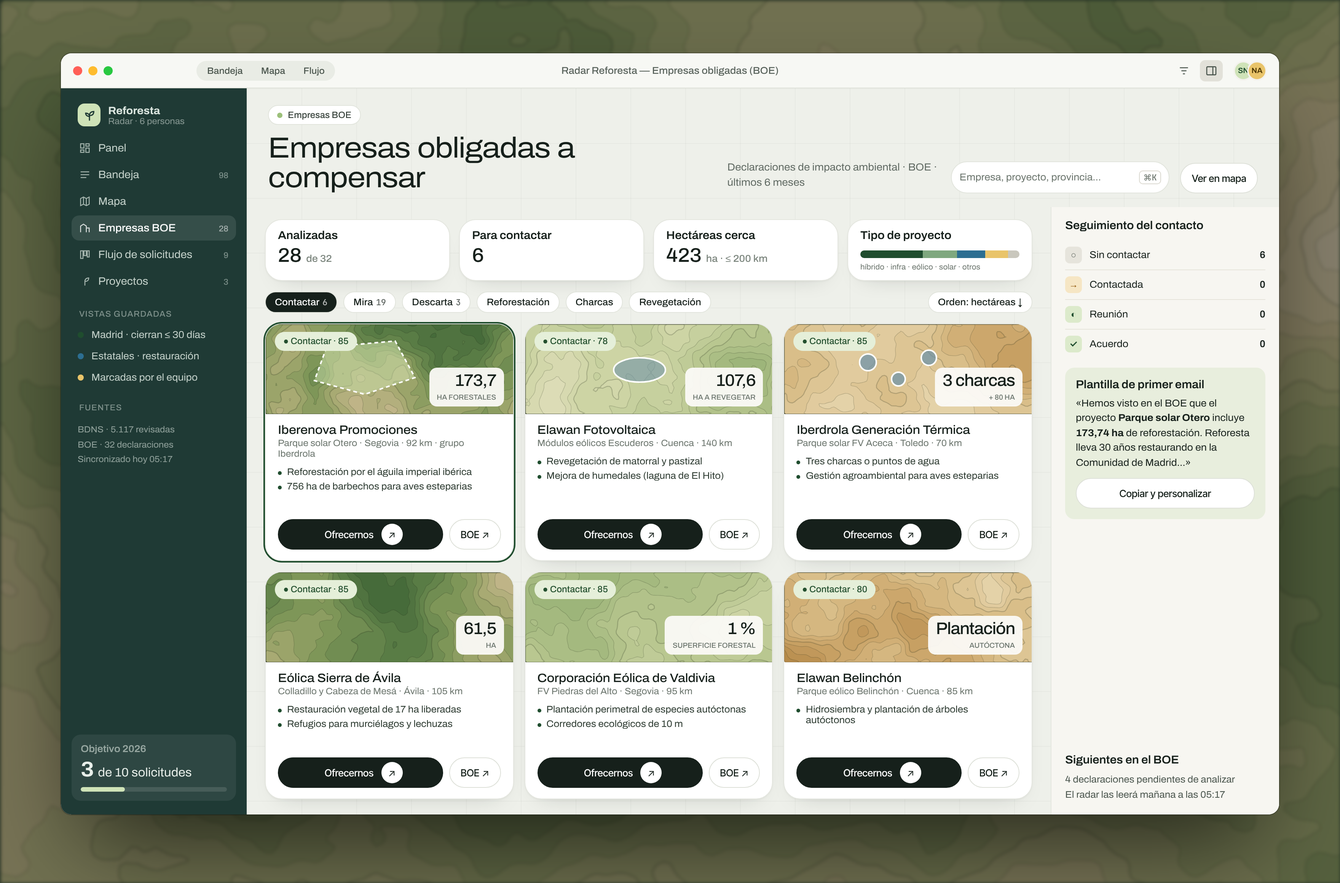
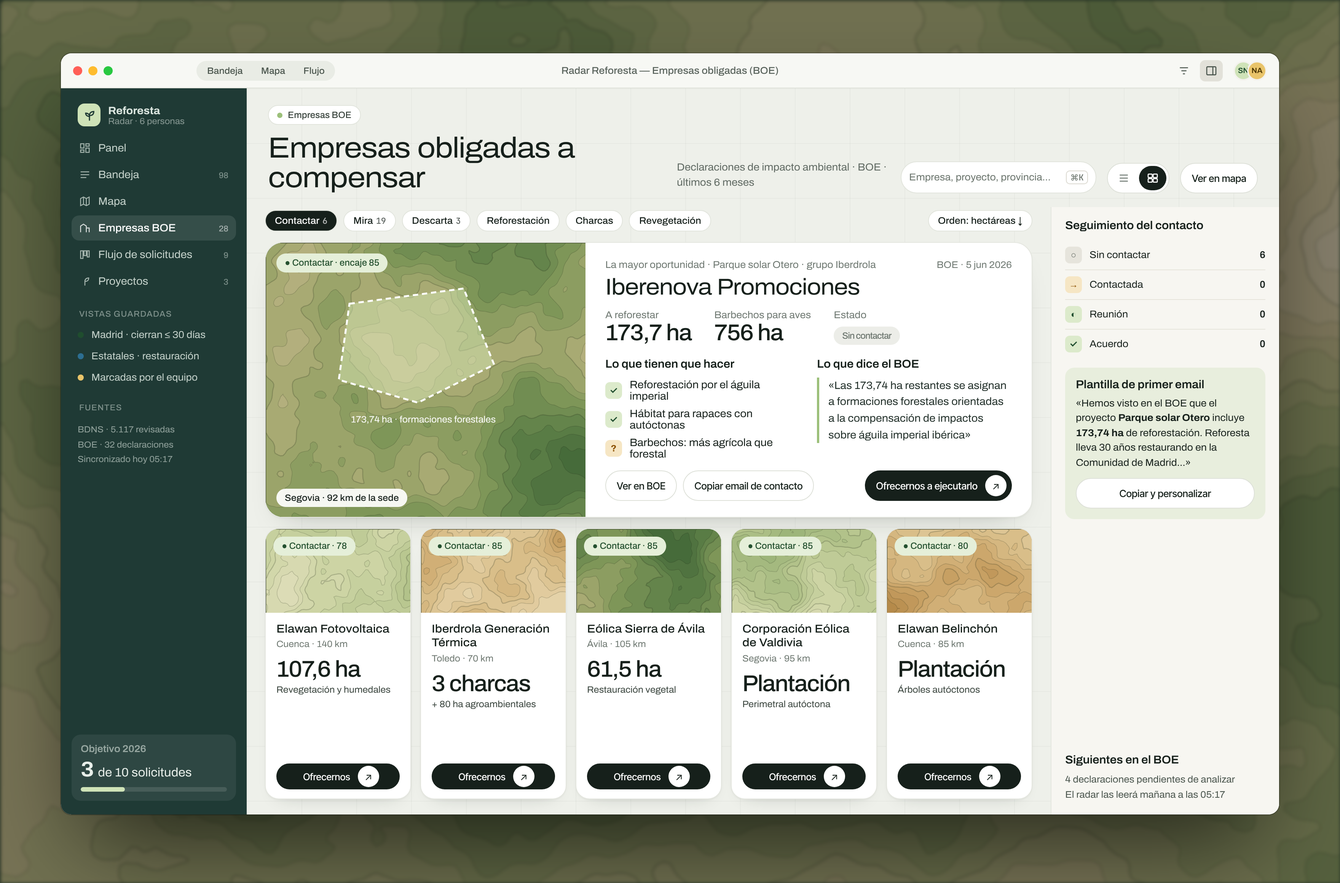
Prototipo Empresas: empresa destacada, tarjetas con hectáreas y vista en lista
Claude-Session: https://claude.ai/code/session_012gZcx8pYrYaYRtrnjVJ3cN

Changed region(s): [[0.1875, 0.2172, 0.7812, 0.9], [0.5, 0.1862, 0.8125, 0.2172], [0.8438, 0.1862, 0.875, 0.2172]]

diff --git a/prototipos/app/fuente/5-empresas.html b/prototipos/app/fuente/5-empresas.html
@@ -21,32 +21,45 @@
 .pipe{width:300px;border-left:1px solid #DAD8CF;background:#F7F6F1;padding:16px 18px;display:flex;flex-direction:column;gap:12px;flex:none}
 .st{display:flex;align-items:center;gap:10px;font-size:13px;padding:8px 0;border-bottom:1px solid #E6E4DB}
 .st b{margin-left:auto;font:600 13px "Archivo"}
+.vt{display:flex;background:#fff;border:1px solid #DDE0D8;border-radius:999px;padding:3px;gap:2px}
+.vt span{width:36px;height:32px;border-radius:999px;display:grid;place-items:center;color:#6E7871}
+.vt span.on{background:#16201B;color:#fff}
+.main2{flex:1;min-width:0;padding:4px 24px 20px;display:flex;flex-direction:column;gap:14px}
+.feat{background:#fff;border:1px solid #E4E6DF;border-radius:24px;overflow:hidden;display:grid;grid-template-columns:420px 1fr;height:362px;box-shadow:0 1px 2px rgba(22,32,27,.04),0 18px 36px -26px rgba(22,32,27,.35);flex:none}
+.fm{position:relative}
+.fb{padding:22px 26px;display:flex;flex-direction:column}
+.stat{display:flex;gap:30px;margin-top:14px}.stat div div:last-child{font-size:30px;font-weight:500;letter-spacing:-.03em;line-height:1.1}
+.stat .lb{font-size:13px;color:#6E7871}
+.small{display:grid;grid-template-columns:repeat(5,minmax(0,1fr));gap:12px;flex:1;min-height:0}
+.sc{background:#fff;border:1px solid #E4E6DF;border-radius:18px;overflow:hidden;display:flex;flex-direction:column;box-shadow:0 1px 2px rgba(22,32,27,.04),0 12px 24px -20px rgba(22,32,27,.3)}
+.sc .sh2{position:relative;height:110px;flex:none}
+.sc .bd{padding:12px 14px;display:flex;flex-direction:column;gap:4px;flex:1}
+.sc h3{margin:0;font-size:15px;line-height:1.25}
+.sc .o{font-size:12px;color:#6E7871}
+.sc .haz{font-size:30px;font-weight:500;letter-spacing:-.03em;margin-top:6px}
+.mlist{list-style:none;margin:12px 0 0;padding:0;display:flex;flex-direction:column;gap:8px;font-size:14px}
+.mlist li{display:flex;gap:10px;align-items:center}
 </style></head><body>
 <div id="page">
- <div class="toolbar"><h1>Empresas obligadas a compensar</h1><span style="color:#6A746C;font-size:13.5px">Declaraciones de impacto ambiental · BOE · últimos 6 meses</span><div class="search">Empresa, proyecto, provincia…<kbd>⌘K</kbd></div><span class="btn">Ver en mapa</span></div>
+ <div class="toolbar"><h1>Empresas obligadas a compensar</h1><span style="color:#6A746C;font-size:13.5px">Declaraciones de impacto ambiental · BOE · últimos 6 meses</span><div class="search">Empresa, proyecto, provincia…<kbd>⌘K</kbd></div><div class="vt" role="group" aria-label="Vista"><span class="" title="Lista"><svg width="16" height="16" viewBox="0 0 24 24" fill="none" stroke="currentColor" stroke-width="2"><path d="M4 6h16M4 12h16M4 18h16"/></svg></span><span class="on" title="Tarjetas"><svg width="16" height="16" viewBox="0 0 24 24" fill="none" stroke="currentColor" stroke-width="2"><rect x="3" y="4" width="8" height="7" rx="1.5"/><rect x="13" y="4" width="8" height="7" rx="1.5"/><rect x="3" y="13" width="8" height="7" rx="1.5"/><rect x="13" y="13" width="8" height="7" rx="1.5"/></svg></span></div><span class="btn">Ver en mapa</span></div>
  <div class="wrap">
-  <div class="main">
-   <div class="kp">
-    <div class="c"><div class="k">Analizadas</div><div style="font-size:26px;font-weight:500;margin-top:4px">28 <span style="font-size:13px;color:#7A847C;font-weight:500">de 32</span></div></div>
-    <div class="c"><div class="k">Para contactar</div><div style="font-size:26px;font-weight:500;margin-top:4px">6</div></div>
-    <div class="c"><div class="k">Hectáreas cerca</div><div style="font-size:26px;font-weight:500;margin-top:4px">423 <span style="font-size:13px;color:#7A847C;font-weight:500">ha · ≤ 200 km</span></div></div>
-    <div class="c"><div class="k">Tipo de proyecto</div><div style="display:flex;height:10px;border-radius:5px;overflow:hidden;margin-top:12px"><i style="flex:11;background:#1F4D2E"></i><i style="flex:6;background:#7FA87F"></i><i style="flex:5;background:#2C6E91"></i><i style="flex:4;background:#E9C46A"></i><i style="flex:2;background:#C9C7BD"></i></div><div class="mono" style="font-size:10px;color:#6A746C;margin-top:6px">híbrido · infra · eólico · solar · otros</div></div>
-   </div>
+  <div class="main2">
    <div style="display:flex;gap:8px"><span class="chip on">Contactar<b>6</b></span><span class="chip">Mira<b>19</b></span><span class="chip">Descarta<b>3</b></span><span class="chip">Reforestación</span><span class="chip">Charcas</span><span class="chip">Revegetación</span><span class="chip" style="margin-left:auto">Orden: hectáreas ↓</span></div>
-   <div class="cards">
-    <div class="ec" style="box-shadow:0 0 0 2px #1F4D2E"><div class="eh"><svg data-t="bosque:41:1.6" width="400" height="118" viewBox="0 0 400 118" aria-hidden="true" style="position:absolute;inset:0"></svg><svg width="400" height="118" viewBox="0 0 400 118" aria-hidden="true" style="position:absolute;inset:0"><path d="M80 30 L170 22 L196 70 L130 92 L64 74 Z" fill="rgba(216,235,184,.45)" stroke="#fff" stroke-width="2" stroke-dasharray="5 4"/></svg><span class="pill pr" style="position:absolute;left:12px;top:10px">● Contactar · 85</span><div class="ha"><b>173,7</b><span>ha forestales</span></div></div>
-     <div class="bd"><h3>Iberenova Promociones</h3><div class="o">Parque solar Otero · Segovia · 92 km · grupo Iberdrola</div><ul><li>Reforestación por el águila imperial ibérica</li><li>756 ha de barbechos para aves esteparias</li></ul><div style="margin-top:auto;display:flex;gap:8px;padding-top:12px"><span class="btn p" style="flex:1">Ofrecernos</span><span class="btn">BOE ↗</span></div></div></div>
-    <div class="ec"><div class="eh"><svg data-t="pradera:52:1.6" width="400" height="118" viewBox="0 0 400 118" aria-hidden="true" style="position:absolute;inset:0"></svg><svg width="400" height="118" viewBox="0 0 400 118" aria-hidden="true" style="position:absolute;inset:0"><ellipse cx="150" cy="60" rx="34" ry="16" fill="rgba(111,147,168,.6)" stroke="#fff" stroke-width="2"/></svg><span class="pill pr" style="position:absolute;left:12px;top:10px">● Contactar · 78</span><div class="ha"><b>107,6</b><span>ha a revegetar</span></div></div>
-     <div class="bd"><h3>Elawan Fotovoltaica</h3><div class="o">Módulos eólicos Escuderos · Cuenca · 140 km</div><ul><li>Revegetación de matorral y pastizal</li><li>Mejora de humedales (laguna de El Hito)</li></ul><div style="margin-top:auto;display:flex;gap:8px;padding-top:12px"><span class="btn p" style="flex:1">Ofrecernos</span><span class="btn">BOE ↗</span></div></div></div>
-    <div class="ec"><div class="eh"><svg data-t="ocre:63:1.6" width="400" height="118" viewBox="0 0 400 118" aria-hidden="true" style="position:absolute;inset:0"></svg><svg width="400" height="118" viewBox="0 0 400 118" aria-hidden="true" style="position:absolute;inset:0"><g fill="rgba(111,147,168,.75)" stroke="#fff" stroke-width="2"><circle cx="110" cy="50" r="11"/><circle cx="150" cy="72" r="9"/><circle cx="190" cy="44" r="10"/></g></svg><span class="pill pr" style="position:absolute;left:12px;top:10px">● Contactar · 85</span><div class="ha"><b>3 charcas</b><span>+ 80 ha</span></div></div>
-     <div class="bd"><h3>Iberdrola Generación Térmica</h3><div class="o">Parque solar FV Aceca · Toledo · 70 km</div><ul><li>Tres charcas o puntos de agua</li><li>Gestión agroambiental para aves esteparias</li></ul><div style="margin-top:auto;display:flex;gap:8px;padding-top:12px"><span class="btn p" style="flex:1">Ofrecernos</span><span class="btn">BOE ↗</span></div></div></div>
-    <div class="ec"><div class="eh"><svg data-t="bosque:77:1.6" width="400" height="118" viewBox="0 0 400 118" aria-hidden="true" style="position:absolute;inset:0"></svg><span class="pill pr" style="position:absolute;left:12px;top:10px">● Contactar · 85</span><div class="ha"><b>61,5</b><span>ha</span></div></div>
-     <div class="bd"><h3>Eólica Sierra de Ávila</h3><div class="o">Colladillo y Cabeza de Mesá · Ávila · 105 km</div><ul><li>Restauración vegetal de 17 ha liberadas</li><li>Refugios para murciélagos y lechuzas</li></ul><div style="margin-top:auto;display:flex;gap:8px;padding-top:12px"><span class="btn p" style="flex:1">Ofrecernos</span><span class="btn">BOE ↗</span></div></div></div>
-    <div class="ec"><div class="eh"><svg data-t="pradera:88:1.6" width="400" height="118" viewBox="0 0 400 118" aria-hidden="true" style="position:absolute;inset:0"></svg><span class="pill pr" style="position:absolute;left:12px;top:10px">● Contactar · 85</span><div class="ha"><b>1 %</b><span>superficie forestal</span></div></div>
-     <div class="bd"><h3>Corporación Eólica de Valdivia</h3><div class="o">FV Piedras del Alto · Segovia · 95 km</div><ul><li>Plantación perimetral de especies autóctonas</li><li>Corredores ecológicos de 10 m</li></ul><div style="margin-top:auto;display:flex;gap:8px;padding-top:12px"><span class="btn p" style="flex:1">Ofrecernos</span><span class="btn">BOE ↗</span></div></div></div>
-    <div class="ec"><div class="eh"><svg data-t="ocre:95:1.6" width="400" height="118" viewBox="0 0 400 118" aria-hidden="true" style="position:absolute;inset:0"></svg><span class="pill pr" style="position:absolute;left:12px;top:10px">● Contactar · 80</span><div class="ha"><b>Plantación</b><span>autóctona</span></div></div>
-     <div class="bd"><h3>Elawan Belinchón</h3><div class="o">Parque eólico Belinchón · Cuenca · 85 km</div><ul><li>Hidrosiembra y plantación de árboles autóctonos</li></ul><div style="margin-top:auto;display:flex;gap:8px;padding-top:12px"><span class="btn p" style="flex:1">Ofrecernos</span><span class="btn">BOE ↗</span></div></div></div>
+   <div class="feat">
+    <div class="fm"><svg data-t="bosque:41:1.3" width="420" height="362" viewBox="0 0 420 362" aria-hidden="true" style="position:absolute;inset:0"></svg><svg width="420" height="362" viewBox="0 0 420 362" aria-hidden="true" style="position:absolute;inset:0"><path d="M110 80 L260 60 L300 160 L200 210 L96 180 Z" fill="rgba(216,235,184,.45)" stroke="#fff" stroke-width="2.5" stroke-dasharray="7 5"/><text x="112" y="236" font-family="Archivo" font-size="12" fill="#fff">173,74 ha · formaciones forestales</text></svg>
+     <span class="pill pr" style="position:absolute;left:14px;top:14px">● Contactar · encaje 85</span><span style="position:absolute;left:14px;bottom:14px;background:rgba(255,255,255,.92);border-radius:999px;padding:5px 11px;font-size:12px;font-weight:500">Segovia · 92 km de la sede</span></div>
+    <div class="fb">
+     <div style="display:flex;align-items:center;gap:8px"><span style="font-size:13px;color:#6E7871">La mayor oportunidad · Parque solar Otero · grupo Iberdrola</span><span style="margin-left:auto;font-size:12.5px;color:#6E7871">BOE · 5 jun 2026</span></div>
+     <div style="font-size:30px;font-weight:400;letter-spacing:-.025em;font-stretch:110%;margin-top:6px">Iberenova Promociones</div>
+     <div class="stat"><div><div class="lb">A reforestar</div><div>173,7 ha</div></div><div><div class="lb">Barbechos para aves</div><div>756 ha</div></div><div><div class="lb">Estado</div><div style="font-size:18px !important;margin-top:8px"><span class="pill de">Sin contactar</span></div></div></div>
+     <div style="display:grid;grid-template-columns:1fr 1fr;gap:22px;margin-top:16px;flex:1">
+      <div><div class="k">Lo que tienen que hacer</div><ul class="mlist"><li><span class="ic ok">✓</span>Reforestación por el águila imperial</li><li><span class="ic ok">✓</span>Hábitat para rapaces con autóctonas</li><li><span class="ic du">?</span>Barbechos: más agrícola que forestal</li></ul></div>
+      <div><div class="k">Lo que dice el BOE</div><blockquote style="margin-top:10px">«Las 173,74 ha restantes se asignan a formaciones forestales orientadas a la compensación de impactos sobre águila imperial ibérica»</blockquote></div>
+     </div>
+     <div style="display:flex;gap:8px;margin-top:14px;align-items:center"><span class="btn">Ver en BOE</span><span class="btn">Copiar email de contacto</span><span class="btn p" style="margin-left:auto">Ofrecernos a ejecutarlo</span></div>
+    </div>
    </div>
+   <div class="small"><div class="sc"><div class="sh2"><svg data-t="pradera:52:1.3" width="260" height="110" viewBox="0 0 260 110" aria-hidden="true" style="position:absolute;inset:0"></svg><span class="pill pr" style="position:absolute;left:10px;top:10px">● Contactar · 78</span></div><div class="bd"><h3>Elawan Fotovoltaica</h3><div class="o">Cuenca · 140 km</div><div class="haz">107,6 ha</div><div class="o" style="color:#38433C">Revegetación y humedales</div><div style="margin-top:auto;display:flex;gap:6px;padding-top:8px"><span class="btn p" style="flex:1;height:34px;font-size:12.5px">Ofrecernos</span></div></div></div><div class="sc"><div class="sh2"><svg data-t="ocre:63:1.3" width="260" height="110" viewBox="0 0 260 110" aria-hidden="true" style="position:absolute;inset:0"></svg><span class="pill pr" style="position:absolute;left:10px;top:10px">● Contactar · 85</span></div><div class="bd"><h3>Iberdrola Generación Térmica</h3><div class="o">Toledo · 70 km</div><div class="haz">3 charcas</div><div class="o" style="color:#38433C">+ 80 ha agroambientales</div><div style="margin-top:auto;display:flex;gap:6px;padding-top:8px"><span class="btn p" style="flex:1;height:34px;font-size:12.5px">Ofrecernos</span></div></div></div><div class="sc"><div class="sh2"><svg data-t="bosque:77:1.3" width="260" height="110" viewBox="0 0 260 110" aria-hidden="true" style="position:absolute;inset:0"></svg><span class="pill pr" style="position:absolute;left:10px;top:10px">● Contactar · 85</span></div><div class="bd"><h3>Eólica Sierra de Ávila</h3><div class="o">Ávila · 105 km</div><div class="haz">61,5 ha</div><div class="o" style="color:#38433C">Restauración vegetal</div><div style="margin-top:auto;display:flex;gap:6px;padding-top:8px"><span class="btn p" style="flex:1;height:34px;font-size:12.5px">Ofrecernos</span></div></div></div><div class="sc"><div class="sh2"><svg data-t="pradera:88:1.3" width="260" height="110" viewBox="0 0 260 110" aria-hidden="true" style="position:absolute;inset:0"></svg><span class="pill pr" style="position:absolute;left:10px;top:10px">● Contactar · 85</span></div><div class="bd"><h3>Corporación Eólica de Valdivia</h3><div class="o">Segovia · 95 km</div><div class="haz">Plantación</div><div class="o" style="color:#38433C">Perimetral autóctona</div><div style="margin-top:auto;display:flex;gap:6px;padding-top:8px"><span class="btn p" style="flex:1;height:34px;font-size:12.5px">Ofrecernos</span></div></div></div><div class="sc"><div class="sh2"><svg data-t="ocre:95:1.3" width="260" height="110" viewBox="0 0 260 110" aria-hidden="true" style="position:absolute;inset:0"></svg><span class="pill pr" style="position:absolute;left:10px;top:10px">● Contactar · 80</span></div><div class="bd"><h3>Elawan Belinchón</h3><div class="o">Cuenca · 85 km</div><div class="haz">Plantación</div><div class="o" style="color:#38433C">Árboles autóctonos</div><div style="margin-top:auto;display:flex;gap:6px;padding-top:8px"><span class="btn p" style="flex:1;height:34px;font-size:12.5px">Ofrecernos</span></div></div></div></div>
   </div>
   <aside class="pipe">
    <div class="k">Seguimiento del contacto</div>

diff --git a/prototipos/app/fuente/5b-empresas-lista.html b/prototipos/app/fuente/5b-empresas-lista.html
@@ -1,0 +1,65 @@
+<!doctype html><html lang="es"><head><meta charset="utf-8">
+<link href="https://fonts.googleapis.com/css2?family=Inter+Tight:wght@400;500;600;700;800&family=JetBrains+Mono:wght@400;500;600&display=swap" rel="stylesheet">
+<script src="https://cdnjs.cloudflare.com/ajax/libs/d3/7.8.5/d3.min.js"></script><script src="terrain.js"></script><script src="shell.js"></script>
+<link rel="stylesheet" href="app.css">
+<style>
+.wrap{flex:1;display:flex;min-height:0}
+.main{flex:1;min-width:0;padding:16px 24px 20px;display:flex;flex-direction:column;gap:14px}
+.kp{display:grid;grid-template-columns:repeat(4,1fr);gap:12px}
+.kp div.c{background:#FBFAF7;border:1px solid #DAD8CF;border-radius:14px;padding:12px 16px}
+.cards{display:grid;grid-template-columns:repeat(3,minmax(0,1fr));gap:14px;flex:1;min-height:0}
+.ec{background:#FBFAF7;border:1px solid #DAD8CF;border-radius:16px;overflow:hidden;display:flex;flex-direction:column}
+.eh{position:relative;height:118px;flex:none}
+.ec .bd{padding:12px 16px 14px;display:flex;flex-direction:column;flex:1}
+.ec h3{margin:0;font-size:16px;letter-spacing:-.01em}
+.ec .o{font-size:12px;color:#6A746C;margin-top:2px}
+.ec ul{margin:10px 0 0;padding:0;list-style:none;font-size:12.5px;display:flex;flex-direction:column;gap:5px;color:#2C3A30}
+.ec li{display:flex;gap:7px}.ec li::before{content:"";width:5px;height:5px;border-radius:50%;background:#1F4D2E;margin-top:6px;flex:none}
+.ha{position:absolute;right:12px;bottom:10px;background:rgba(251,250,247,.95);border-radius:10px;padding:6px 10px;text-align:right}
+.ha b{font-size:22px;font-weight:500;letter-spacing:-.03em;display:block;line-height:1}
+.ha span{font:500 9.5px "Archivo";color:#6A746C;text-transform:uppercase}
+.pipe{width:300px;border-left:1px solid #DAD8CF;background:#F7F6F1;padding:16px 18px;display:flex;flex-direction:column;gap:12px;flex:none}
+.st{display:flex;align-items:center;gap:10px;font-size:13px;padding:8px 0;border-bottom:1px solid #E6E4DB}
+.st b{margin-left:auto;font:600 13px "Archivo"}
+.vt{display:flex;background:#fff;border:1px solid #DDE0D8;border-radius:999px;padding:3px;gap:2px}
+.vt span{width:36px;height:32px;border-radius:999px;display:grid;place-items:center;color:#6E7871}
+.vt span.on{background:#16201B;color:#fff}
+.main2{flex:1;min-width:0;padding:4px 24px 20px;display:flex;flex-direction:column;gap:14px}
+.feat{background:#fff;border:1px solid #E4E6DF;border-radius:24px;overflow:hidden;display:grid;grid-template-columns:420px 1fr;min-height:300px;box-shadow:0 1px 2px rgba(22,32,27,.04),0 18px 36px -26px rgba(22,32,27,.35);flex:none}
+.fm{position:relative}
+.fb{padding:22px 26px;display:flex;flex-direction:column}
+.stat{display:flex;gap:30px;margin-top:14px}.stat div div:last-child{font-size:30px;font-weight:500;letter-spacing:-.03em;line-height:1.1}
+.stat .lb{font-size:13px;color:#6E7871}
+.small{display:grid;grid-template-columns:repeat(5,minmax(0,1fr));gap:12px;flex:1;min-height:0}
+.sc{background:#fff;border:1px solid #E4E6DF;border-radius:18px;overflow:hidden;display:flex;flex-direction:column;box-shadow:0 1px 2px rgba(22,32,27,.04),0 12px 24px -20px rgba(22,32,27,.3)}
+.sc .sh2{position:relative;height:92px;flex:none}
+.sc .bd{padding:12px 14px;display:flex;flex-direction:column;gap:4px;flex:1}
+.sc h3{margin:0;font-size:15px;line-height:1.25}
+.sc .o{font-size:12px;color:#6E7871}
+.sc .ha{font-size:24px;font-weight:500;letter-spacing:-.03em;margin-top:6px}
+.mlist{list-style:none;margin:12px 0 0;padding:0;display:flex;flex-direction:column;gap:8px;font-size:14px}
+.mlist li{display:flex;gap:10px;align-items:center}
+td{padding:11px 12px;border-top:1px solid #EEF0EA}td:first-child{padding-left:18px}
+tr.sel td{background:#EEF4E6}tr.sel td:first-child{box-shadow:inset 3px 0 0 #1F4D2E}
+th{padding:12px 12px;border-bottom:1px solid #E4E6DF}
+</style></head><body>
+<div id="page">
+ <div class="toolbar"><h1>Empresas obligadas a compensar</h1><span style="color:#6A746C;font-size:13.5px">Declaraciones de impacto ambiental · BOE · últimos 6 meses</span><div class="search">Empresa, proyecto, provincia…<kbd>⌘K</kbd></div><div class="vt" role="group" aria-label="Vista"><span class="on" title="Lista"><svg width="16" height="16" viewBox="0 0 24 24" fill="none" stroke="currentColor" stroke-width="2"><path d="M4 6h16M4 12h16M4 18h16"/></svg></span><span class="" title="Tarjetas"><svg width="16" height="16" viewBox="0 0 24 24" fill="none" stroke="currentColor" stroke-width="2"><rect x="3" y="4" width="8" height="7" rx="1.5"/><rect x="13" y="4" width="8" height="7" rx="1.5"/><rect x="3" y="13" width="8" height="7" rx="1.5"/><rect x="13" y="13" width="8" height="7" rx="1.5"/></svg></span></div><span class="btn">Ver en mapa</span></div>
+ <div class="wrap">
+  <div class="main2">
+   <div style="display:flex;gap:8px"><span class="chip on">Todas<b>28</b></span><span class="chip">Contactar<b>6</b></span><span class="chip">Mira<b>19</b></span><span class="chip">≤ 200 km</span><span class="chip">Reforestación</span><span class="chip" style="margin-left:auto">Orden: hectáreas ↓</span></div>
+   <div style="background:#fff;border:1px solid #E4E6DF;border-radius:22px;overflow:hidden;flex:1;box-shadow:0 1px 2px rgba(22,32,27,.04),0 14px 30px -22px rgba(22,32,27,.25)">
+   <table style="width:100%;border-collapse:collapse;font-size:13.5px">
+    <thead><tr><th style="text-align:left;padding:14px 18px">Empresa</th><th style="text-align:left">Proyecto · lugar</th><th style="text-align:left">Medida principal</th><th style="text-align:left">Hectáreas</th><th style="text-align:left">Encaje</th><th style="text-align:left">Contacto</th></tr></thead>
+    <tbody><tr class="sel"><td><div style="display:flex;gap:12px;align-items:center"><svg class="tile" data-t="bosque:41:1" width="40" height="40" viewBox="0 0 40 40" aria-hidden="true"></svg><div><div style="font-weight:500">Iberenova Promociones</div><div style="font-size:12px;color:#6E7871">grupo Iberdrola</div></div></div></td><td>Parque solar Otero<div style="font-size:12px;color:#6E7871">Segovia · 92 km</div></td><td>Reforestación forestal</td><td style="font-size:15px;font-weight:500">173,7</td><td><div style="display:flex;align-items:center;gap:8px"><div class="bar" style="width:60px;height:6px"><i style="width:85%;"></i></div>85</div></td><td><span class="pill de">Sin contactar</span></td></tr><tr><td><div style="display:flex;gap:12px;align-items:center"><svg class="tile" data-t="pradera:52:1" width="40" height="40" viewBox="0 0 40 40" aria-hidden="true"></svg><div><div style="font-weight:500">Elawan Fotovoltaica</div><div style="font-size:12px;color:#6E7871">Escuderos 1, SL</div></div></div></td><td>Módulos eólicos Escuderos<div style="font-size:12px;color:#6E7871">Cuenca · 140 km</div></td><td>Revegetación y humedales</td><td style="font-size:15px;font-weight:500">107,6</td><td><div style="display:flex;align-items:center;gap:8px"><div class="bar" style="width:60px;height:6px"><i style="width:78%;"></i></div>78</div></td><td><span class="pill de">Sin contactar</span></td></tr><tr><td><div style="display:flex;gap:12px;align-items:center"><svg class="tile" data-t="ocre:63:1" width="40" height="40" viewBox="0 0 40 40" aria-hidden="true"></svg><div><div style="font-weight:500">Iberdrola Generación Térmica</div><div style="font-size:12px;color:#6E7871">Promotor</div></div></div></td><td>Parque solar FV Aceca<div style="font-size:12px;color:#6E7871">Toledo · 70 km</div></td><td>3 charcas + agroambiental</td><td style="font-size:15px;font-weight:500">80,0</td><td><div style="display:flex;align-items:center;gap:8px"><div class="bar" style="width:60px;height:6px"><i style="width:85%;"></i></div>85</div></td><td><span class="pill de">Sin contactar</span></td></tr><tr><td><div style="display:flex;gap:12px;align-items:center"><svg class="tile" data-t="bosque:77:1" width="40" height="40" viewBox="0 0 40 40" aria-hidden="true"></svg><div><div style="font-weight:500">Eólica Sierra de Ávila</div><div style="font-size:12px;color:#6E7871">Promotor</div></div></div></td><td>Colladillo y Cabeza de Mesá<div style="font-size:12px;color:#6E7871">Ávila · 105 km</div></td><td>Restauración vegetal</td><td style="font-size:15px;font-weight:500">61,5</td><td><div style="display:flex;align-items:center;gap:8px"><div class="bar" style="width:60px;height:6px"><i style="width:85%;"></i></div>85</div></td><td><span class="pill de">Sin contactar</span></td></tr><tr><td><div style="display:flex;gap:12px;align-items:center"><svg class="tile" data-t="pradera:88:1" width="40" height="40" viewBox="0 0 40 40" aria-hidden="true"></svg><div><div style="font-weight:500">Corporación Eólica de Valdivia</div><div style="font-size:12px;color:#6E7871">Promotor</div></div></div></td><td>FV Piedras del Alto<div style="font-size:12px;color:#6E7871">Segovia · 95 km</div></td><td>Plantación perimetral</td><td style="font-size:15px;font-weight:500">—</td><td><div style="display:flex;align-items:center;gap:8px"><div class="bar" style="width:60px;height:6px"><i style="width:85%;"></i></div>85</div></td><td><span class="pill de">Sin contactar</span></td></tr><tr><td><div style="display:flex;gap:12px;align-items:center"><svg class="tile" data-t="ocre:95:1" width="40" height="40" viewBox="0 0 40 40" aria-hidden="true"></svg><div><div style="font-weight:500">Elawan Belinchón</div><div style="font-size:12px;color:#6E7871">Promotor</div></div></div></td><td>Parque eólico Belinchón<div style="font-size:12px;color:#6E7871">Cuenca · 85 km</div></td><td>Plantación autóctona</td><td style="font-size:15px;font-weight:500">—</td><td><div style="display:flex;align-items:center;gap:8px"><div class="bar" style="width:60px;height:6px"><i style="width:80%;"></i></div>80</div></td><td><span class="pill de">Sin contactar</span></td></tr><tr><td><div style="display:flex;gap:12px;align-items:center"><svg class="tile" data-t="gris:12:1" width="40" height="40" viewBox="0 0 40 40" aria-hidden="true"></svg><div><div style="font-weight:500">BRUC Las Quinientas</div><div style="font-size:12px;color:#6E7871">Promotor</div></div></div></td><td>Módulo eólico Las Quinientas<div style="font-size:12px;color:#6E7871">Cádiz · 520 km</div></td><td>Revegetación y humedales</td><td style="font-size:15px;font-weight:500">—</td><td><div style="display:flex;align-items:center;gap:8px"><div class="bar" style="width:60px;height:6px"><i style="width:68%;background:#C98A1E"></i></div>68</div></td><td><span class="pill mi">Mira</span></td></tr><tr><td><div style="display:flex;gap:12px;align-items:center"><svg class="tile" data-t="gris:22:1" width="40" height="40" viewBox="0 0 40 40" aria-hidden="true"></svg><div><div style="font-weight:500">Sistemas Energéticos Barandón</div><div style="font-size:12px;color:#6E7871">Promotor</div></div></div></td><td>Hibridación Herrera de los Navarros<div style="font-size:12px;color:#6E7871">Zaragoza · 270 km</div></td><td>Bosquetes autóctonos</td><td style="font-size:15px;font-weight:500">1,5</td><td><div style="display:flex;align-items:center;gap:8px"><div class="bar" style="width:60px;height:6px"><i style="width:65%;background:#C98A1E"></i></div>65</div></td><td><span class="pill mi">Mira</span></td></tr></tbody></table></div>
+  </div>
+  <aside class="pipe">
+   <div class="k">Seguimiento del contacto</div>
+   <div><div class="st"><span class="ic" style="background:#E6E4DC;color:#5F665F">○</span>Sin contactar<b>6</b></div><div class="st"><span class="ic du">→</span>Contactada<b>0</b></div><div class="st"><span class="ic ok">◐</span>Reunión<b>0</b></div><div class="st" style="border:0"><span class="ic ok">✓</span>Acuerdo<b>0</b></div></div>
+   <div style="border-radius:12px;background:#E8EEDD;padding:14px"><div class="k">Plantilla de primer email</div><div style="font-size:13px;line-height:1.5;margin-top:8px">«Hemos visto en el BOE que el proyecto <b>Parque solar Otero</b> incluye <b>173,74 ha</b> de reforestación. Reforesta lleva 30 años restaurando en la Comunidad de Madrid…»</div><span class="btn" style="margin-top:10px;width:100%">Copiar y personalizar</span></div>
+   <div style="margin-top:auto"><div class="k" style="margin-bottom:8px">Siguientes en el BOE</div><div style="font-size:12.5px;color:#4A554D;line-height:1.6">4 declaraciones pendientes de analizar<br>El radar las leerá mañana a las 05:17</div></div>
+  </aside>
+ </div>
+</div>
+<script>shell({titulo:'Radar Reforesta — Empresas obligadas (lista)',seg:'',nav:'Empresas BOE'});</script>
+</body></html>
